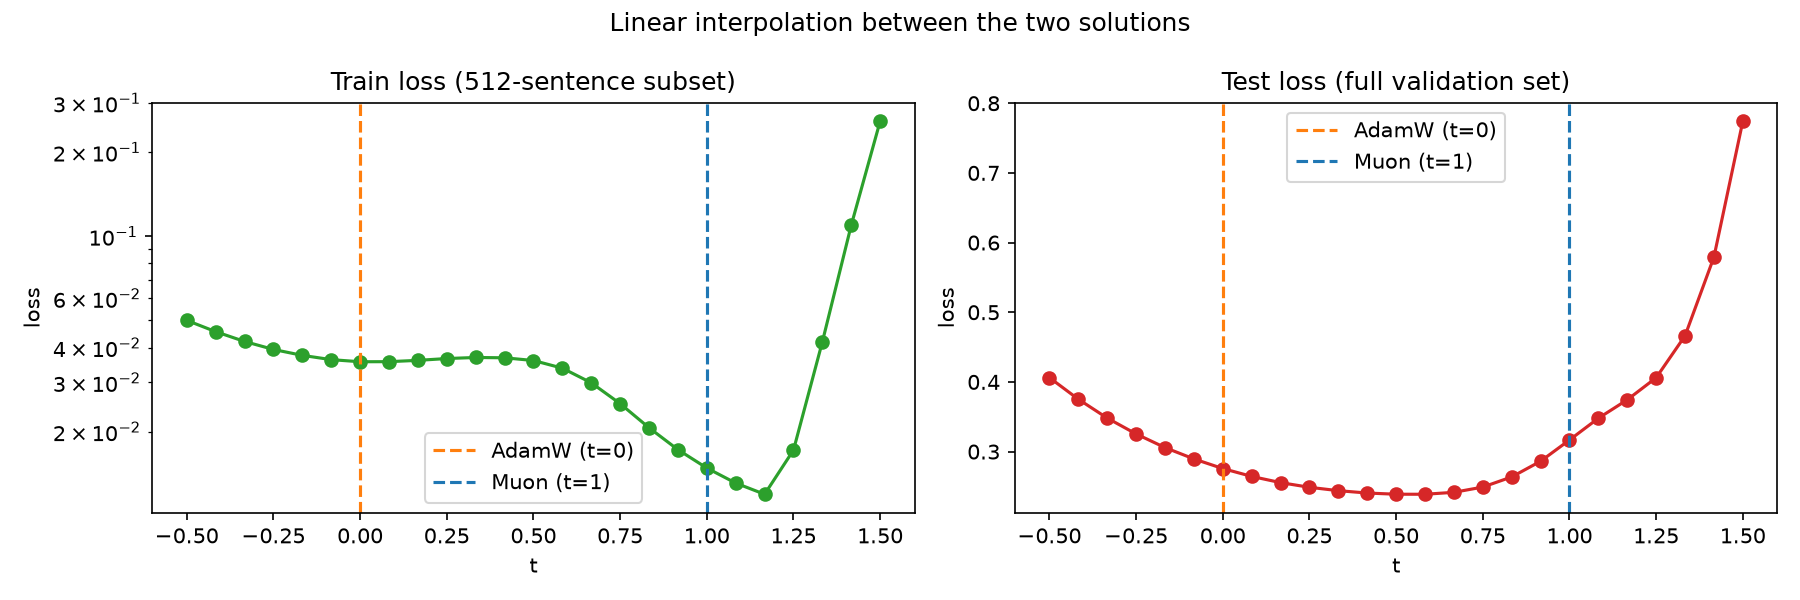
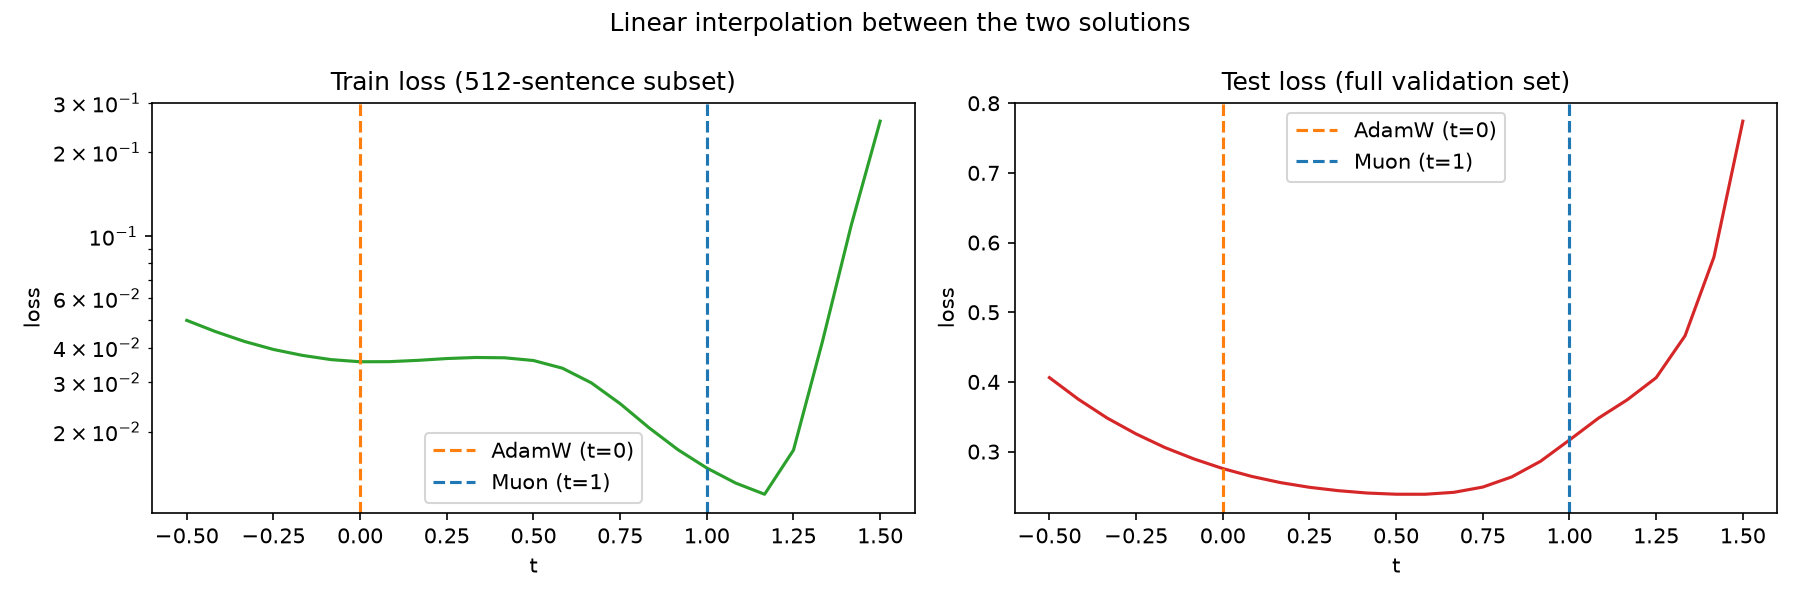
final results

diff --git a/plot_sharpness.py b/plot_sharpness.py
@@ -4,10 +4,8 @@ import json
 import os
 from tabulate import tabulate
 
-
 GROUPS = ["hidden", "nonhidden", "all"]
 OPTS = {"adamw": ("AdamW", "tab:orange"), "muon": ("Muon", "tab:blue")}
-
 
 def plot_perturbation(cfg, all_stats):
     """Loss increase vs relative perturbation size, one panel per parameter group.
@@ -22,7 +20,7 @@ def plot_perturbation(cfg, all_stats):
                     sigmas.append(float(s))
                     means.append(v["mean"])
                     ses.append(v["std"] / np.sqrt(len(v["losses"])))
-            ax.errorbar(sigmas, means, yerr=ses, marker="o", capsize=3, label=label, color=color)
+            ax.errorbar(sigmas, means, yerr=ses, capsize=3, label=label, color=color)
         ax.set_xscale("log")
         ax.set_yscale("log")
         ax.set_title(f"{group} parameters")
@@ -34,16 +32,15 @@ def plot_perturbation(cfg, all_stats):
     plt.savefig(f"{cfg['output_dir']}/perturbation_sharpness.png", dpi=150)
     plt.close(fig)
 
-
 def plot_interpolation(cfg, all_stats):
     """Loss along the straight line θ_A + t(θ_M − θ_A). t=0 is AdamW, t=1 is Muon."""
     it = all_stats["interpolate_stats"]
     t = np.array(it["t"])
     fig, (ax_tr, ax_te) = plt.subplots(1, 2, figsize=(12, 4))
-    ax_tr.plot(t, it["train_loss"], marker="o", color="tab:green")
+    ax_tr.plot(t, it["train_loss"], color="tab:green")
     ax_tr.set_yscale("log")
     ax_tr.set_title("Train loss (512-sentence subset)")
-    ax_te.plot(t, it["test_loss"], marker="o", color="tab:red")
+    ax_te.plot(t, it["test_loss"], color="tab:red")
     ax_te.set_title("Test loss (full validation set)")
     for ax in (ax_tr, ax_te):
         ax.axvline(0, color="tab:orange", linestyle="--", label="AdamW (t=0)")
@@ -55,7 +52,6 @@ def plot_interpolation(cfg, all_stats):
     plt.tight_layout()
     plt.savefig(f"{cfg['output_dir']}/interpolation.png", dpi=150)
     plt.close(fig)
-
 
 def summary_table(cfg, all_stats, sigma="0.05"):
     """One row per parameter group: top Hessian eigenvalue and perturbation loss rise
@@ -96,8 +92,6 @@ def summary_table(cfg, all_stats, sigma="0.05"):
     md += "\n\n## Generalization gap along the interpolation line\n\n" + tabulate(gap_rows, headers="keys", tablefmt="github")
     with open(f"{cfg['output_dir']}/summary_table.md", "w") as f:
         f.write(md + "\n")
-    print(md)
-
 
 if __name__ == "__main__":
     cfg = {"output_dir": "sharpness"}
